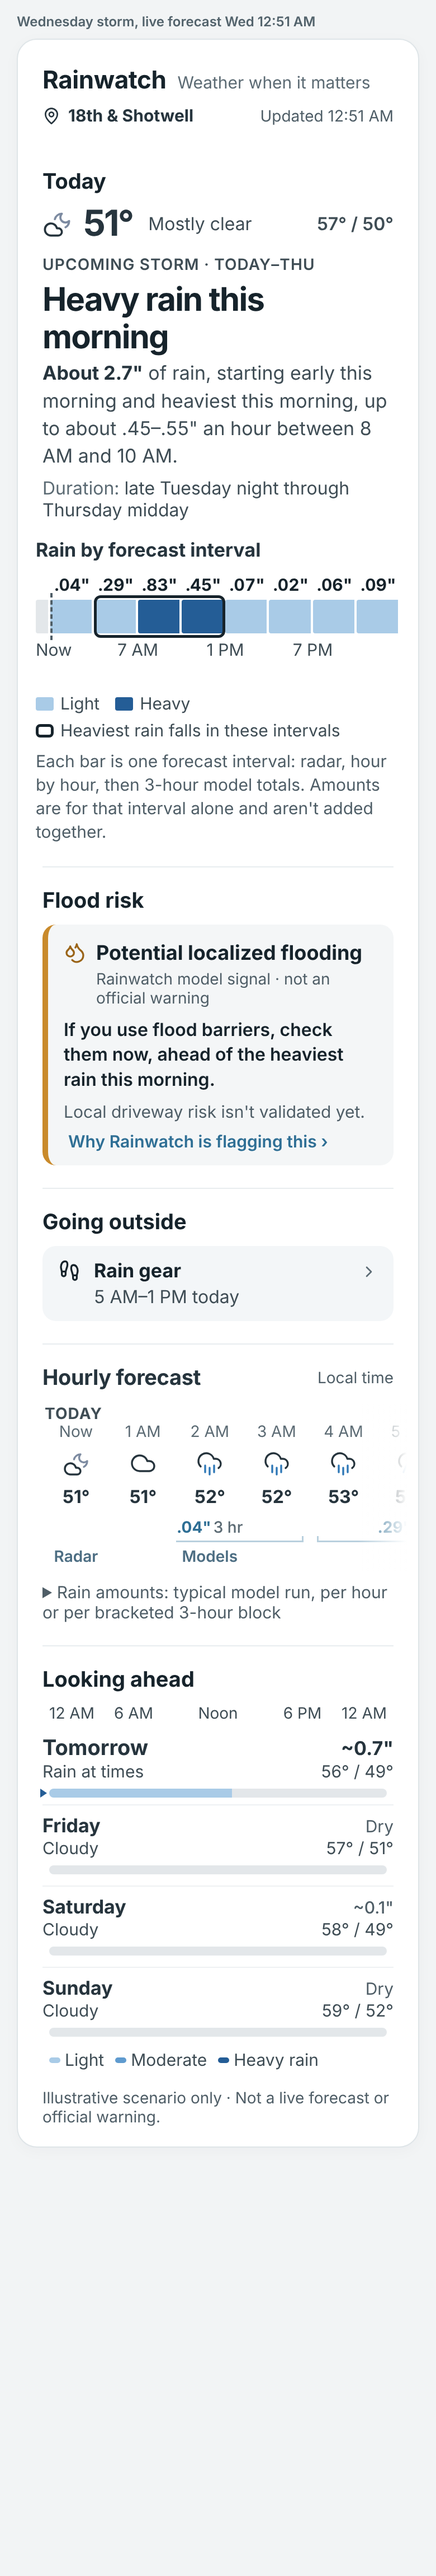
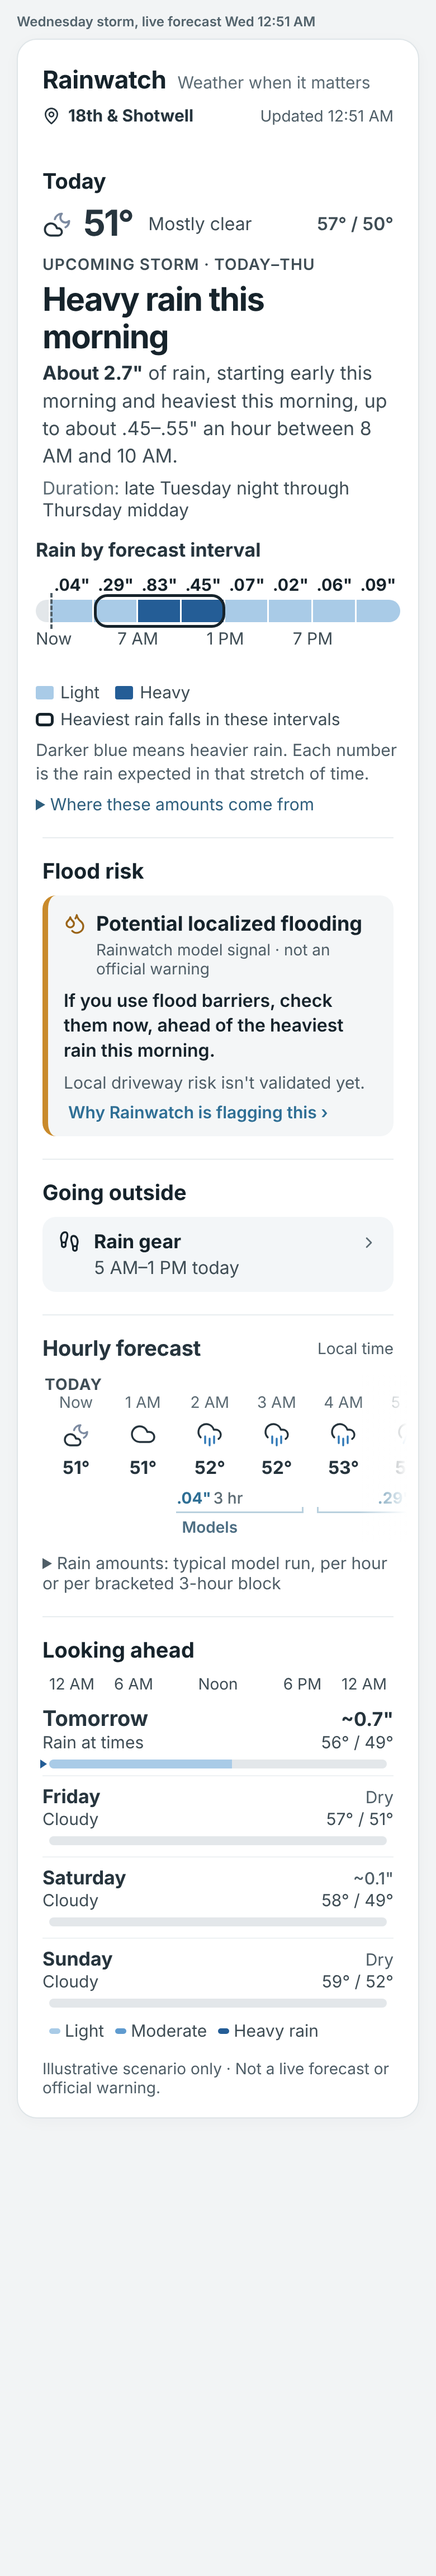
PR B final: source tags only where amounts show; plain-language chart note; segmented intensity timeline
Claude-Session: https://claude.ai/code/session_01DGZCEbHLV5VJSPz5Ug97vc

diff --git a/card/src/components/WeatherCard.tsx b/card/src/components/WeatherCard.tsx
@@ -105,7 +105,8 @@ function TodayRain({ s, t }: { s: Scenario; t: TodayT }) {
     </div>
     <div className="today-legend" aria-hidden>{lvls.map(l => <span key={l}><i className={`sw i${l}`} />{['', 'Light', 'Moderate', 'Heavy'][l]}</span>)}
       {t.heavy && <span><i className="sw-heavy" />Heaviest rain falls in these intervals</span>}</div>
-    <p className="today-note">{sourcesCaption(t)}</p>
+    <p className="today-note">Darker blue means heavier rain. Each number is the rain expected in that stretch of time.</p>
+    <details className="today-about"><summary>Where these amounts come from</summary><p>{sourcesCaption(t)}</p></details>
   </div>;
 }
 
@@ -158,7 +159,10 @@ function Hourly({ s }: { s: Scenario }) {
   s.hourly.forEach((h, i) => {
     const at = h.hour ?? i, l = hourLabel(s, at), icon = isUnknown(s, at) ? 'unknown' : h.icon, a = amts?.get(at);
     if (i === 0 || l.day) items.push(<em className="hour-pin" aria-hidden key={`pin-${at}`}>{i === 0 ? 'Today' : l.day}</em>);
-    const src = srcOf(at), tag = src && src !== lastSrc ? (src === 'radar' ? 'Radar' : src === 'nws' ? 'NWS' : 'Models') : null; lastSrc = src ?? lastSrc;
+    // a source is named at the first hour of its run that shows an amount: dry intervals show no amount by design
+    // (DISPLAY-RULES, Rain amounts), so a label over an empty run would point at nothing
+    const shown = Boolean(a?.text && a.text !== '—'), src = shown ? srcOf(at) : undefined;
+    const tag = src && src !== lastSrc ? (src === 'radar' ? 'Radar' : src === 'nws' ? 'NWS' : 'Models') : null; if (src) lastSrc = src;
     const blk = a && a.kind !== 'dry' && a.kind !== 'missing' && a.pos !== 'solo' ? ` blk blk-${a.pos}` : '';
     items.push(<div className={`hour${l.day && i > 0 ? ' hour-midnight' : ''}${a?.top ? ' hour-top' : ''}`} role="listitem" key={at}
       aria-label={`${l.day ? `${l.day} ` : ''}${l.text}${a?.text && a.text !== '—' ? `, rain ${a.text}${a.res > 1 ? ` over ${a.res} hours` : ''}` : ''}`}>

diff --git a/card/src/styles.css b/card/src/styles.css
@@ -256,3 +256,14 @@ details.todo-row[open] .todo-chev{transform:rotate(90deg)}
 .weather-card .edge-note{font-size:15px}
 .weather-card .upcoming p{font-size:16px}
 .weather-card footer{font-size:14px;color:#4f5e67}
+
+/* PR B final: the rain chart as a segmented intensity timeline (colour is intensity; every segment the same height) */
+.today-plot{height:20px;border-radius:10px;overflow:visible}
+.today-bar{border-right:1.5px solid white;border-radius:0}
+.today-plot .today-bar:first-child{border-radius:10px 0 0 10px}
+.today-plot .today-bar:nth-last-child(1 of .today-bar){border-radius:0 10px 10px 0;border-right:0}
+.today-heavy{top:-5px;bottom:-5px;border-radius:12px}
+.today-past{border-radius:10px 0 0 10px}
+.today-about{font-size:15px;color:#4f5e67}
+.today-about summary{cursor:pointer;color:#2f5f7d}
+.today-about p{margin:6px 0 0;line-height:1.45}
